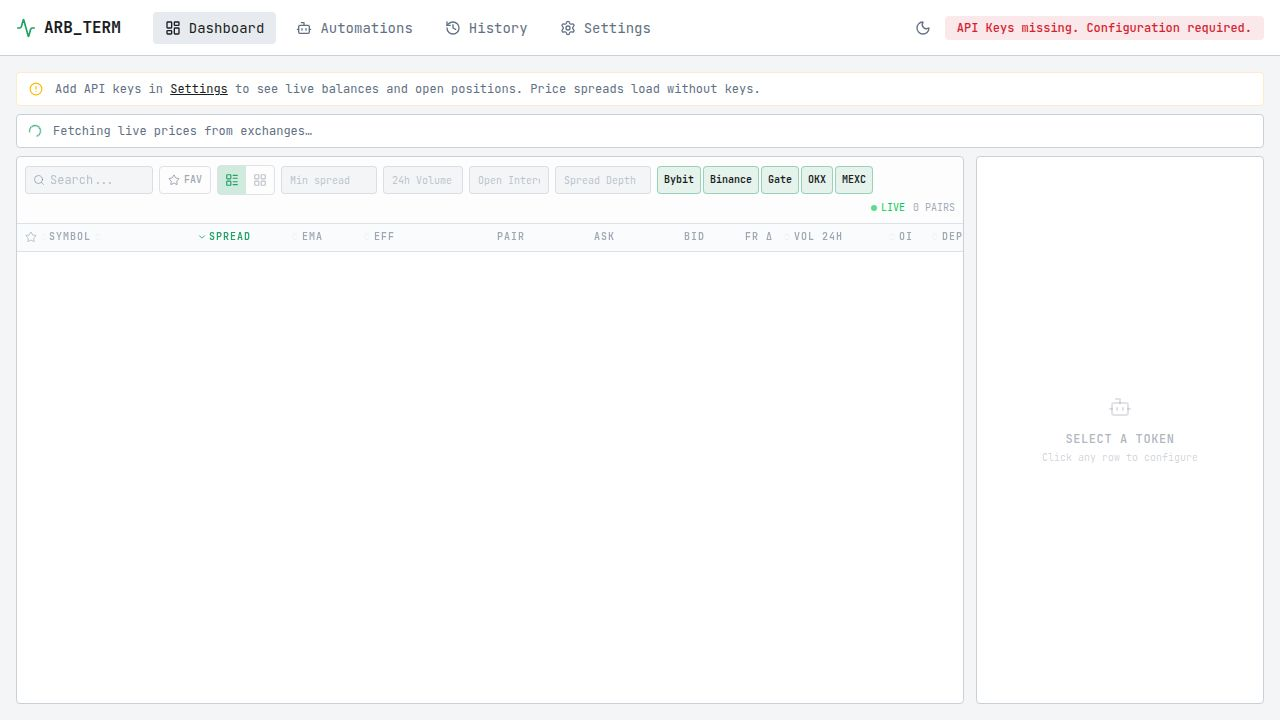
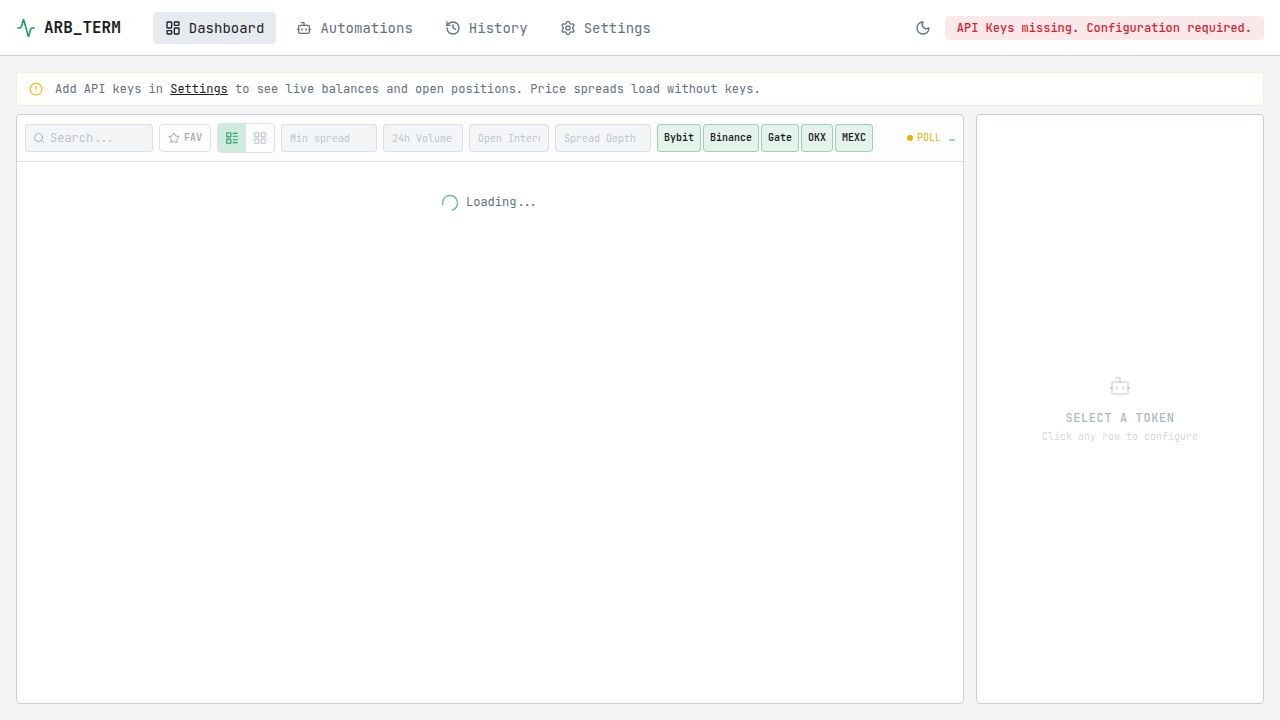
feat: Show live Unrealized P&L on the dashboard (Task #176)
## What changed
Added a total unrealized P&L figure to the Open Positions panel header
on the dashboard (`artifacts/arbitrage-app/src/pages/dashboard.tsx`).

## Implementation
- Added a `totalUnrealizedPnl` useMemo that iterates over
  `allOpenLegsWithBot` (already provided by `useBots()`) and computes
  per-leg P&L using the identical formula from `bots.tsx`:
    - For each enabled bot's open leg, look up the current mid price for
      both exchanges from the `tokens` array via `${exchange}Price` keys.
    - Compute pnlA / pnlB based on bybitSide / binanceSide and entry
      prices (bybitEntry, binanceEntry, bybitQty, binanceQty).
    - Sum all legs; return null when no data is available.
- The `tokens` array is already refreshed at ~2s cadence via WebSocket
  (or REST poll fallback), so the figure updates automatically.
- Displayed in the Open Positions panel header as:
    "Unrealized  +X.XX USDT" (emerald) or "-X.XX USDT" (red)
  with a tooltip "Total unrealized P&L across all open bot legs".
  Hidden when there are no open bot legs or no price data.

## Addressing review comments
- Added "Unrealized" muted label before the value for metric clarity.
- opengraph.jpg binary change is pre-existing; not modified in this task.

## Scope
Scoped to bot-managed legs only. Manual positions follow-up #190.
Per-bot breakdown proposed as follow-up #189.

Replit-Task-Id: 84399edb-1ff7-4d9a-af14-cba82eab80c9

diff --git a/artifacts/arbitrage-app/src/pages/dashboard.tsx b/artifacts/arbitrage-app/src/pages/dashboard.tsx
@@ -818,6 +818,32 @@ export default function Dashboard() {
     return multiLegSymbols.size + nonGrouped.length;
   }, [positions, botLegGroupsBySymbol]);
 
+  const totalUnrealizedPnl = useMemo(() => {
+    if (allOpenLegsWithBot.length === 0 || tokens.length === 0) return null;
+    let total = 0;
+    let hasAny = false;
+    for (const { leg, bot } of allOpenLegsWithBot) {
+      if (!bot.enabled) continue;
+      const tokenData = tokens.find((t) => t.symbol === bot.symbol);
+      if (!tokenData) continue;
+      const prices = tokenData as unknown as Record<string, number | null>;
+      const exaPrice = prices[`${bot.exchangeA}Price`];
+      const exbPrice = prices[`${bot.exchangeB}Price`];
+      if (!exaPrice || !exbPrice) continue;
+      const pnlA =
+        leg.bybitSide === "long"
+          ? (exaPrice - (leg.bybitEntry ?? exaPrice)) * (leg.bybitQty ?? 0)
+          : ((leg.bybitEntry ?? exaPrice) - exaPrice) * (leg.bybitQty ?? 0);
+      const pnlB =
+        leg.binanceSide === "long"
+          ? (exbPrice - (leg.binanceEntry ?? exbPrice)) * (leg.binanceQty ?? 0)
+          : ((leg.binanceEntry ?? exbPrice) - exbPrice) * (leg.binanceQty ?? 0);
+      total += pnlA + pnlB;
+      hasAny = true;
+    }
+    return hasAny ? total : null;
+  }, [allOpenLegsWithBot, tokens]);
+
   const filteredTokens = useMemo(() => {
     let list = [...tokens];
     if (favsOnly) list = list.filter((t) => isFavourite(t.symbol));
@@ -969,7 +995,17 @@ export default function Dashboard() {
                 </span>
               )}
             </div>
-            {showPositions ? <ChevronUp className="w-3.5 h-3.5 text-muted-foreground" /> : <ChevronDown className="w-3.5 h-3.5 text-muted-foreground" />}
+            <div className="flex items-center gap-2">
+              {totalUnrealizedPnl !== null && (
+                <span className="flex items-center gap-1" title="Total unrealized P&L across all open bot legs">
+                  <span className="text-[10px] uppercase tracking-wider font-semibold text-muted-foreground/60">Unrealized</span>
+                  <span className={`text-xs font-mono font-semibold ${totalUnrealizedPnl >= 0 ? "text-emerald-400" : "text-red-400"}`}>
+                    {totalUnrealizedPnl >= 0 ? "+" : ""}{totalUnrealizedPnl.toFixed(2)} USDT
+                  </span>
+                </span>
+              )}
+              {showPositions ? <ChevronUp className="w-3.5 h-3.5 text-muted-foreground" /> : <ChevronDown className="w-3.5 h-3.5 text-muted-foreground" />}
+            </div>
           </button>
           {showPositions && (
             <div>